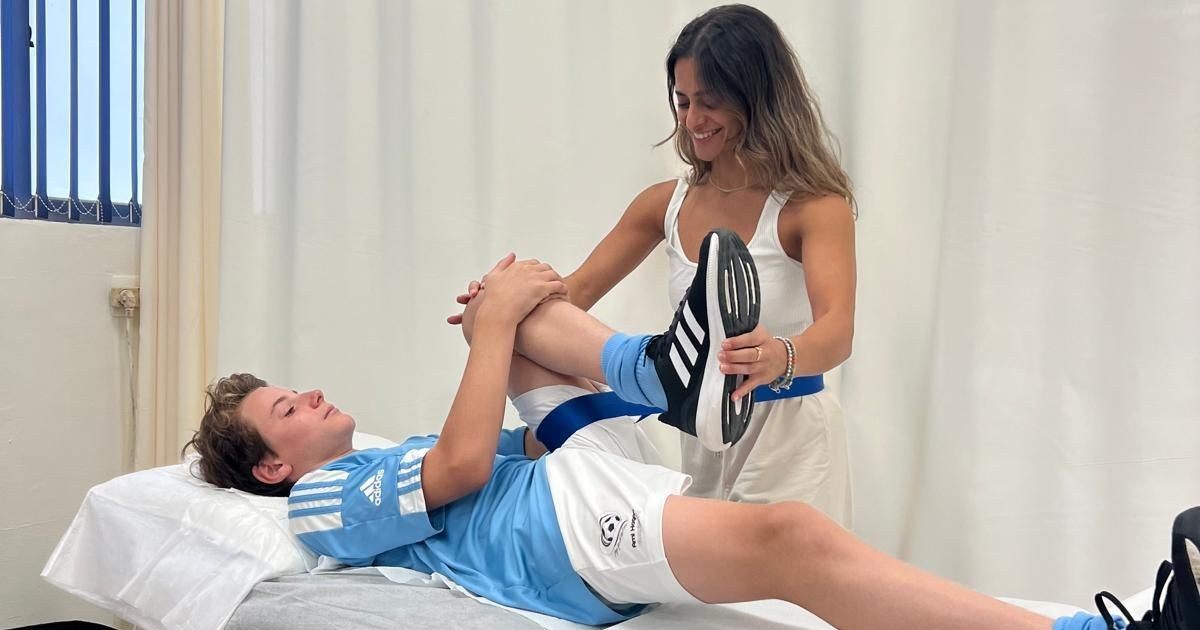
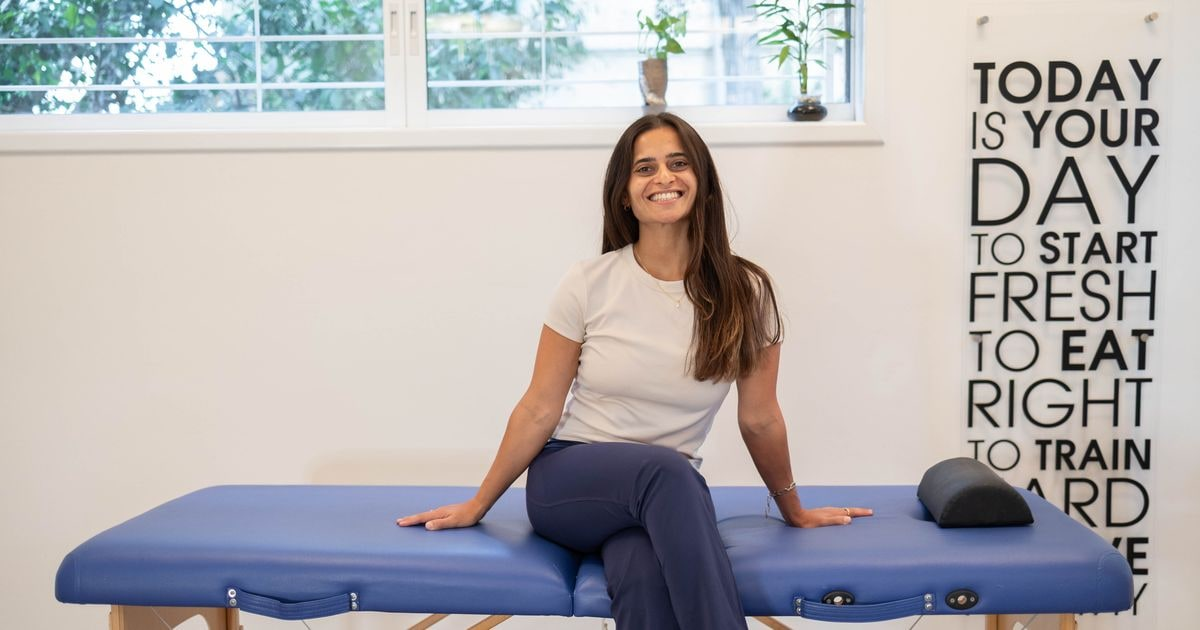
feat: share image from the October 2026 shoot
Replaces the old phone photo behind og:image, twitter:image and the
JSON-LD image with 104A8016 (Gal on the treatment bed), cropped to
1200x630 from the full-resolution original, photo only, no logo. The
site name already sits in bold under the image in every link preview,
and in WhatsApp's small square thumbnail a logo would be cropped out
anyway. Alt text now describes the photo.

Pre-edit frame: regenerate from the photographer's edit of 104A8016
(full width, 1200/630 band starting 30% down the spare height).

diff --git a/src/data/site.ts b/src/data/site.ts
@@ -58,7 +58,7 @@ export const SITE = {
   // ── Open Graph ────────────────────────────────────────────────────────────
   openGraph: {
     image: '/og-image.jpg',
-    imageAlt: 'גל עופרי פיזיותרפיה, קליניקת פיזיותרפיה ושיקום בתל אביב',
+    imageAlt: 'גל עופרי, פיזיותרפיסטית, יושבת על מיטת הטיפולים בקליניקה בתל אביב ומחייכת',
     imageWidth: 1200,
     imageHeight: 630,
   },
